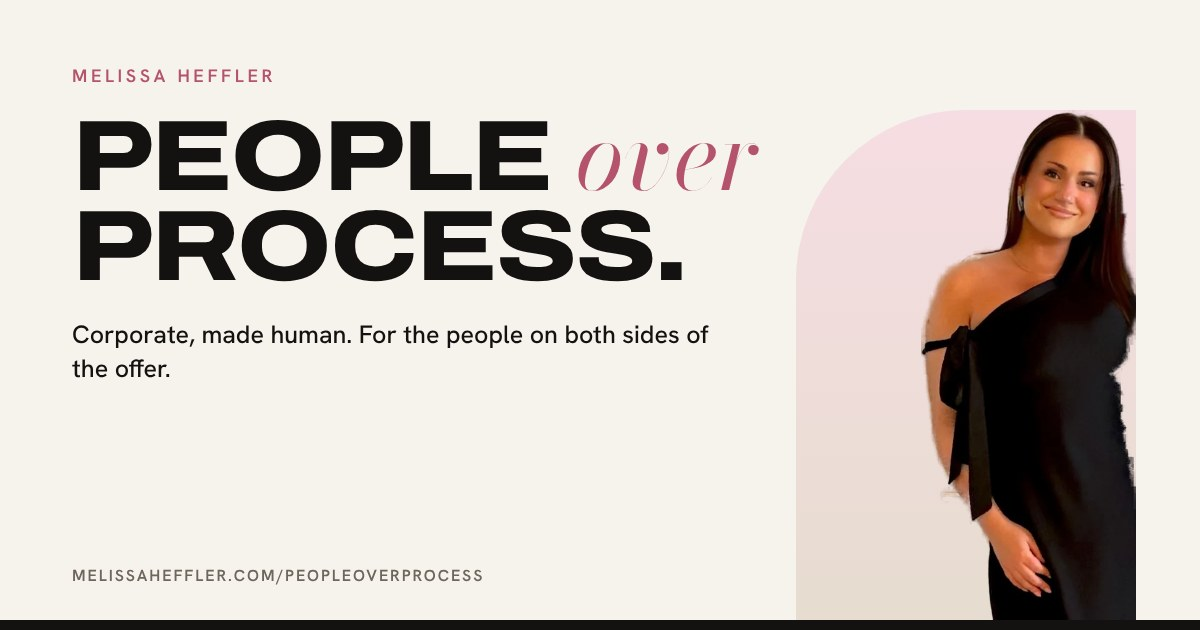
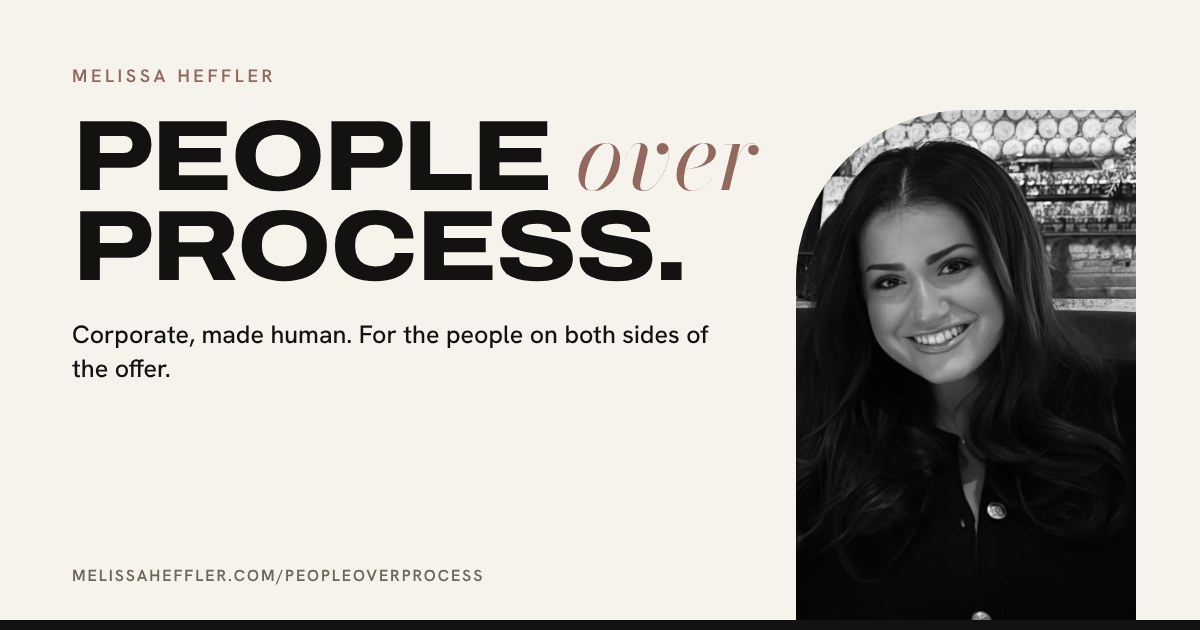
Add files via upload

Changed region(s): [[0.6475, 0.1508, 0.9558, 0.9952], [0.4625, 0.2111, 0.6167, 0.3016]]

diff --git a/portfolio.html b/portfolio.html
@@ -23,17 +23,17 @@
 /* Layout: three tabs under a sticky header. Nude and noir: bone ground, near-black type, nude-rose accent, bold expanded uppercase headlines with one italic serif accent. Older note: a magazine issue. Cover, editor's letter, four features, a principles spread, an interactive feature, a career timeline, back page. */
 :root{
   --paper:#F6F2EC; --surface:#FBF9F6; --ink:#141210; --muted:#6E655D; --line:#E3D9CD;
-  --accent:#B4536B; --blush:#F6DDE3; --accent-inv:#F0B3C0; --sand:#E6DCCF; --ok:#3E6B4E; --ok-soft:#E5EFE6; --warn:#A0561F; --warn-soft:#F7E9DC;
+  --accent:#93695F; --blush:#EFE3DD; --accent-inv:#D9BBB2; --sand:#E6DCCF; --ok:#3E6B4E; --ok-soft:#E5EFE6; --warn:#A0561F; --warn-soft:#F7E9DC;
   --display:"Archivo","Helvetica Neue",Arial,sans-serif; --serif:"Bodoni Moda","Didot","Bodoni 72",Georgia,serif;
   --body:"Hanken Grotesk", "Helvetica Neue", Arial, sans-serif;
   --mono:"Hanken Grotesk","Helvetica Neue",Arial,sans-serif;
 }
-@media (prefers-color-scheme: dark){:root:not([data-theme="light"]){
+@media (prefers-color-scheme: dark) and (min-width: 901px){:root:not([data-theme="light"]){
   --paper:#141210; --surface:#1D1A17; --ink:#F3EDE6; --muted:#A9A097; --line:#34302B;
-  --accent:#EFA7B7; --accent-inv:#B4536B; --blush:#3D2229; --sand:#2A2521; --ok:#86C59D; --ok-soft:#1B2A20; --warn:#EBA86D; --warn-soft:#352618; color-scheme:dark}}
+  --accent:#D4AEA4; --accent-inv:#93695F; --blush:#3A2C28; --sand:#2A2521; --ok:#86C59D; --ok-soft:#1B2A20; --warn:#EBA86D; --warn-soft:#352618; color-scheme:dark}}
 :root[data-theme="dark"]{
   --paper:#141210; --surface:#1D1A17; --ink:#F3EDE6; --muted:#A9A097; --line:#34302B;
-  --accent:#EFA7B7; --accent-inv:#B4536B; --blush:#3D2229; --sand:#2A2521; --ok:#86C59D; --ok-soft:#1B2A20; --warn:#EBA86D; --warn-soft:#352618; color-scheme:dark}
+  --accent:#D4AEA4; --accent-inv:#93695F; --blush:#3A2C28; --sand:#2A2521; --ok:#86C59D; --ok-soft:#1B2A20; --warn:#EBA86D; --warn-soft:#352618; color-scheme:dark}
 
 *{box-sizing:border-box}
 [hidden]{display:none!important}
@@ -616,7 +616,7 @@ h1 i,h2 i,h3 i,q i{font-family:var(--serif);font-style:italic;font-weight:400;te
 .btn.line{background:transparent;color:var(--ink);border:1px solid var(--ink);text-decoration:none;display:inline-block}
 .btn.line:hover{background:var(--ink);color:var(--paper)}
 .try{background:#141210;color:#F6F2EC}
-@media (prefers-color-scheme: dark){:root:not([data-theme="light"]) .try{background:#0C0B0A}}
+@media (prefers-color-scheme: dark) and (min-width: 901px){:root:not([data-theme="light"]) .try{background:#0C0B0A}}
 :root[data-theme="dark"] .try{background:#0C0B0A}
 .try .opt[aria-pressed="true"]{background:#F6F2EC;color:#141210;border-color:#F6F2EC}
 .try .bform input,.try .bform select,.try .bform textarea{color:#F6F2EC;background:rgba(246,242,236,.06);border-color:rgba(246,242,236,.22)}
@@ -624,9 +624,9 @@ h1 i,h2 i,h3 i,q i{font-family:var(--serif);font-style:italic;font-weight:400;te
 .try .f>span,.try .kicker,.try .bstatus,.try-intro p,.try-head p{color:rgba(246,242,236,.72)}
 .try .btn.dark{background:#F6F2EC;color:#141210}
 .try .audit-r,.try .stage,.try .bmail{color:var(--ink)}
-.try-intro h2 i,.try-n{color:#F0B3C0}
+.try-intro h2 i,.try-n{color:#D9BBB2}
 .try-head{border-top-color:rgba(246,242,236,.25)}
-.try .checks input{accent-color:#F0B3C0}
+.try .checks input{accent-color:#D9BBB2}
 
 @media (max-width:900px){
   .mast nav.tabbar{display:flex}
@@ -674,6 +674,10 @@ h1 i,h2 i,h3 i,q i{font-family:var(--serif);font-style:italic;font-weight:400;te
 /* replay always animates, even with reduced motion on */
 .stage.force .m{transition:left .9s cubic-bezier(.6,0,.3,1) var(--d),top .9s cubic-bezier(.6,0,.3,1) var(--d),transform .9s cubic-bezier(.6,0,.3,1) var(--d),opacity .5s ease calc(var(--d) + .55s)!important}
 .stage.force .cc{transition:opacity .5s ease calc(var(--i)*.35s),transform .5s ease calc(var(--i)*.35s)!important}
+
+/* portrait v5: full-bleed black-and-white headshot */
+.portrait-panel{aspect-ratio:3/4;background:var(--sand)}
+.portrait-panel img{position:absolute;inset:0;left:0;right:0;top:0;bottom:0;width:100%;height:100%;max-width:none;object-fit:cover;object-position:50% 22%;transform:none;-webkit-mask-image:none;mask-image:none}
 </style>
 </head>
 <body>
@@ -709,7 +713,7 @@ h1 i,h2 i,h3 i,q i{font-family:var(--serif);font-style:italic;font-weight:400;te
       </div>
     </div>
     <figure class="portrait">
-      <div class="portrait-panel"><img src="/m-gown.webp" alt="Melissa Heffler, smiling, in a black one-shoulder gown" width="348" height="840"></div>
+      <div class="portrait-panel"><img src="/m-portrait.webp" alt="Black-and-white portrait of Melissa Heffler, smiling" width="900" height="1200"></div>
       <figcaption><b>Melissa Heffler</b><span>People operations · candidate &amp; employee experience</span></figcaption>
     </figure>
   </section>
